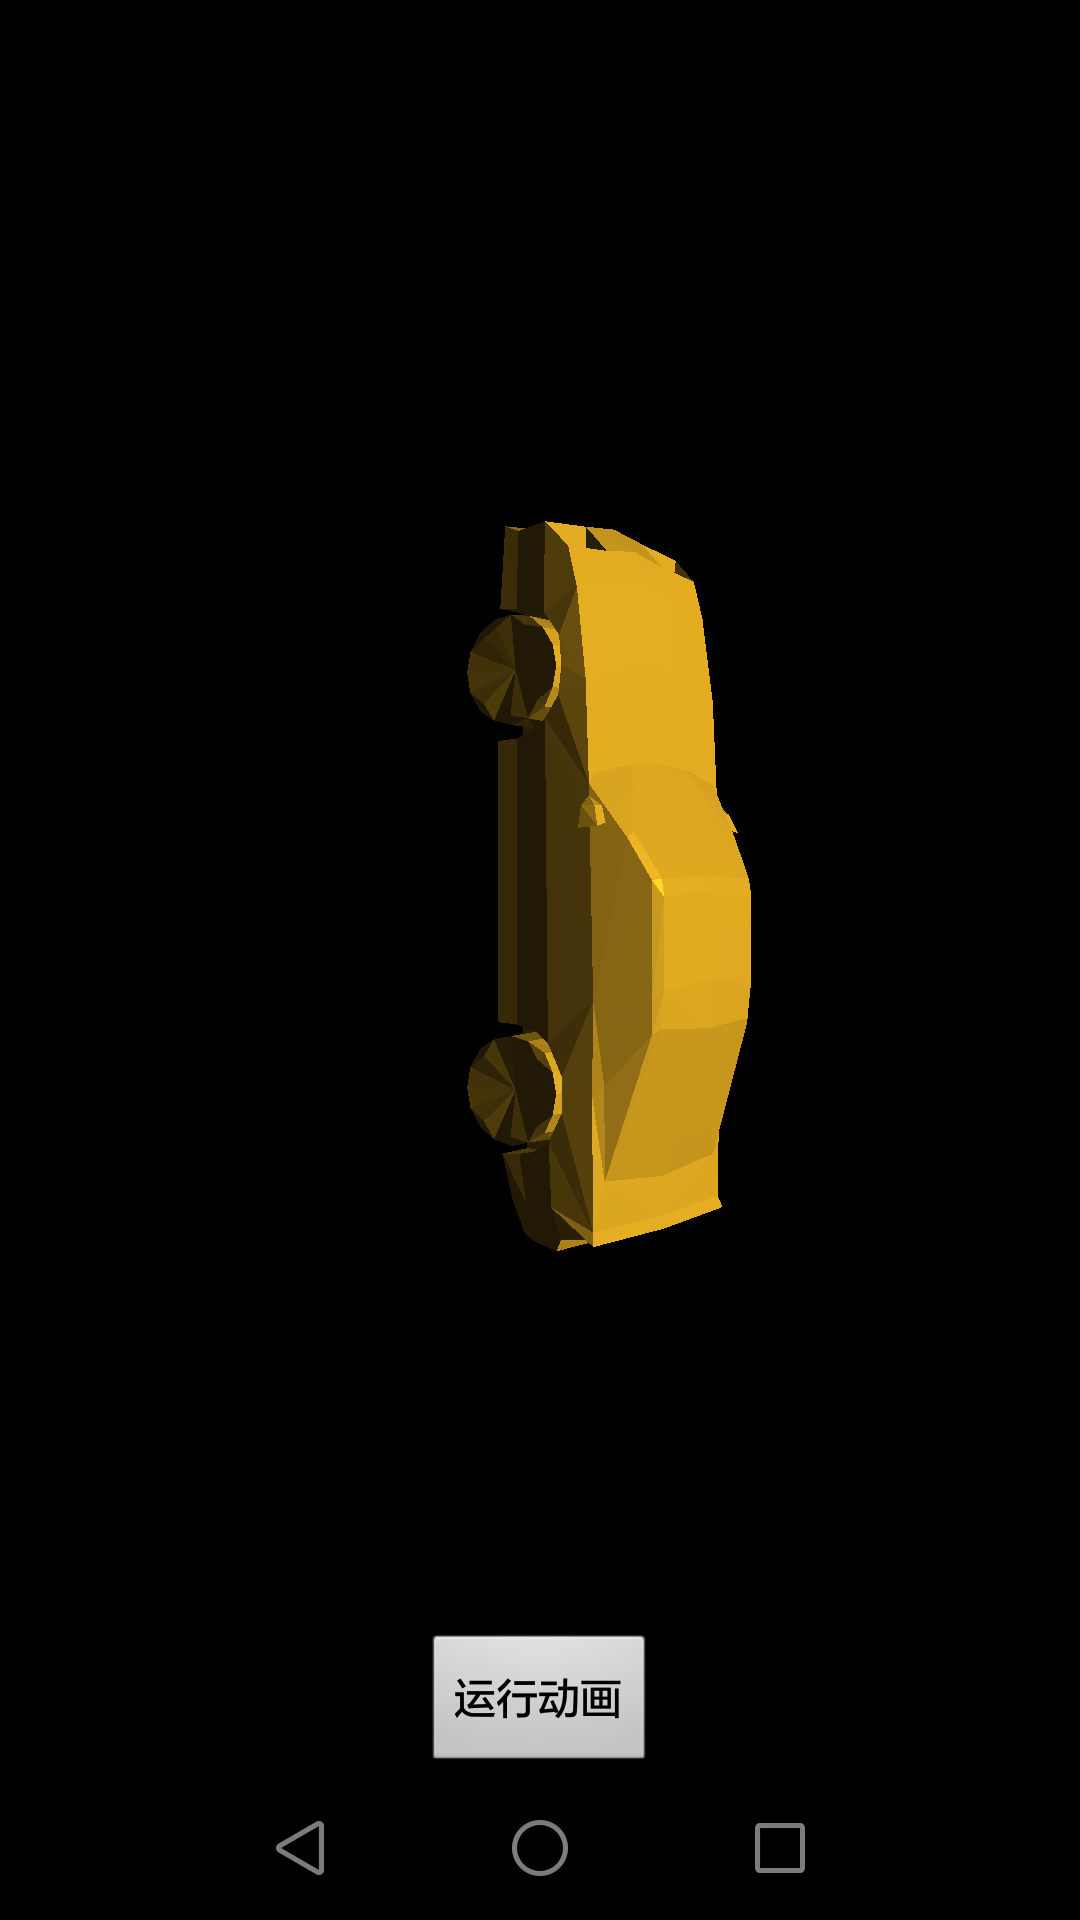
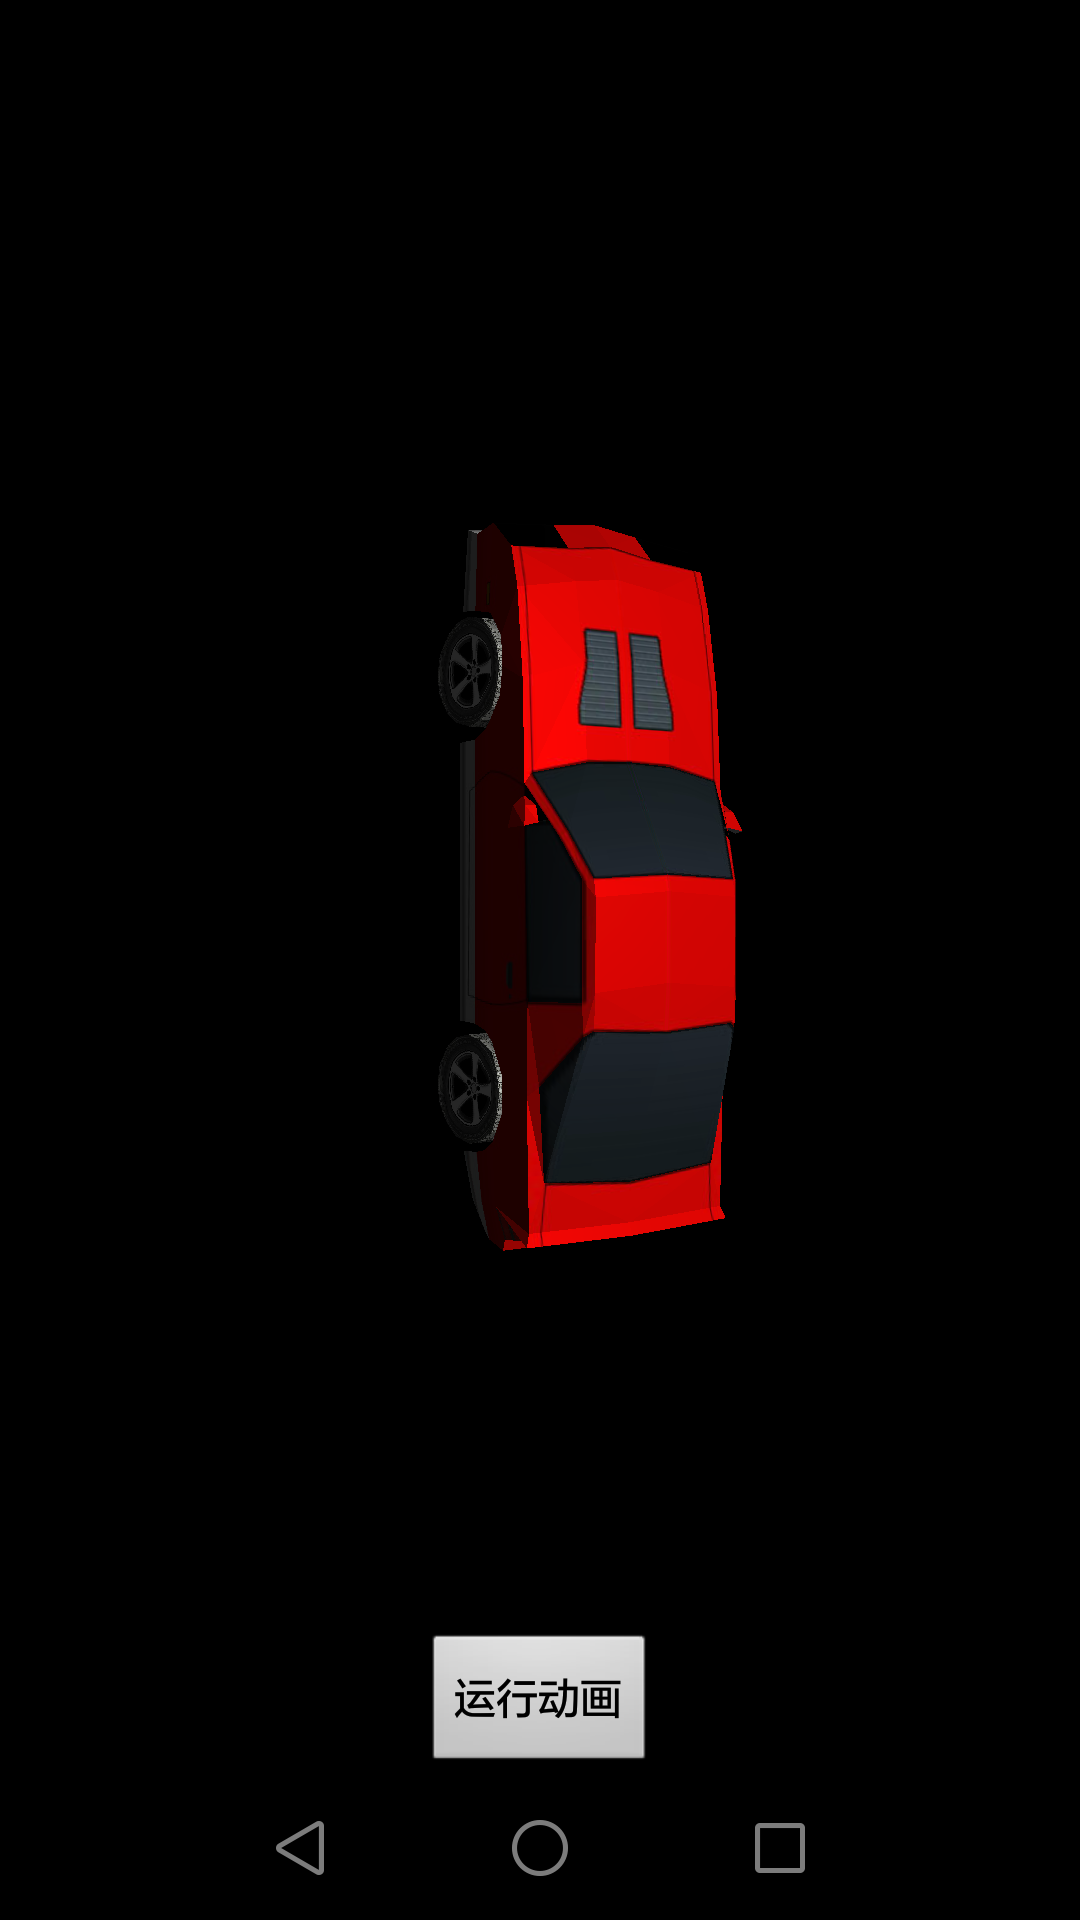
修改效果图

Changed region(s): [[0.3972, 0.25, 0.7028, 0.6562]]

diff --git a/gl_load_obj/src/main/java/com/xiaxl/gl_load_obj/gl/MyGLScene.java b/gl_load_obj/src/main/java/com/xiaxl/gl_load_obj/gl/MyGLScene.java
@@ -82,7 +82,7 @@ public class MyGLScene extends LeGLBaseScene {
          * 绘制地球
          */
         MatrixState.pushMatrix();
-        MatrixState.translate(0, 0, -20);
+        MatrixState.translate(0, 0, -10);
         //
         mSpriteGroup.drawSelf(drawTime);
 
@@ -121,7 +121,7 @@ public class MyGLScene extends LeGLBaseScene {
          * ----勋章---
          */
         try {
-            mObjList = ObjLoaderUtil.load("multiobjects.obj", this.getResources());
+            mObjList = ObjLoaderUtil.load("camaro.obj", this.getResources());
         } catch (Exception e) {
             e.printStackTrace();
         }
